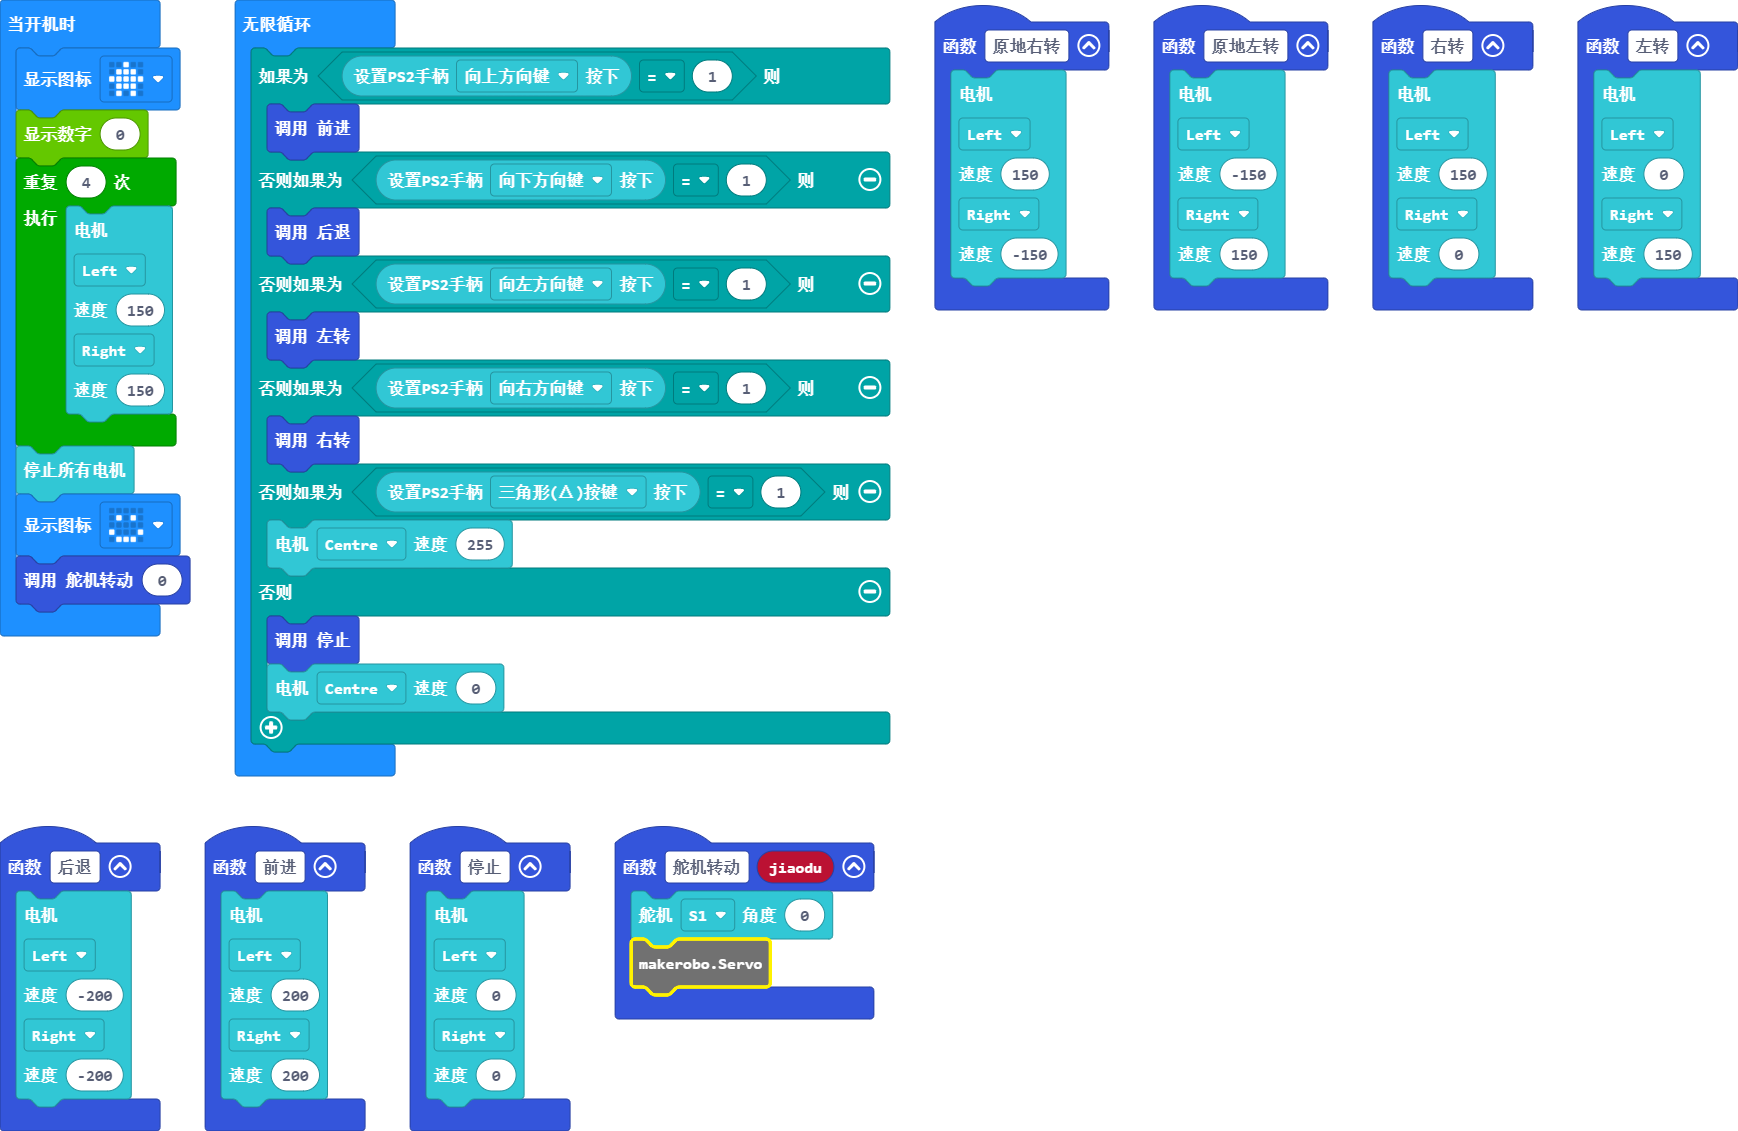
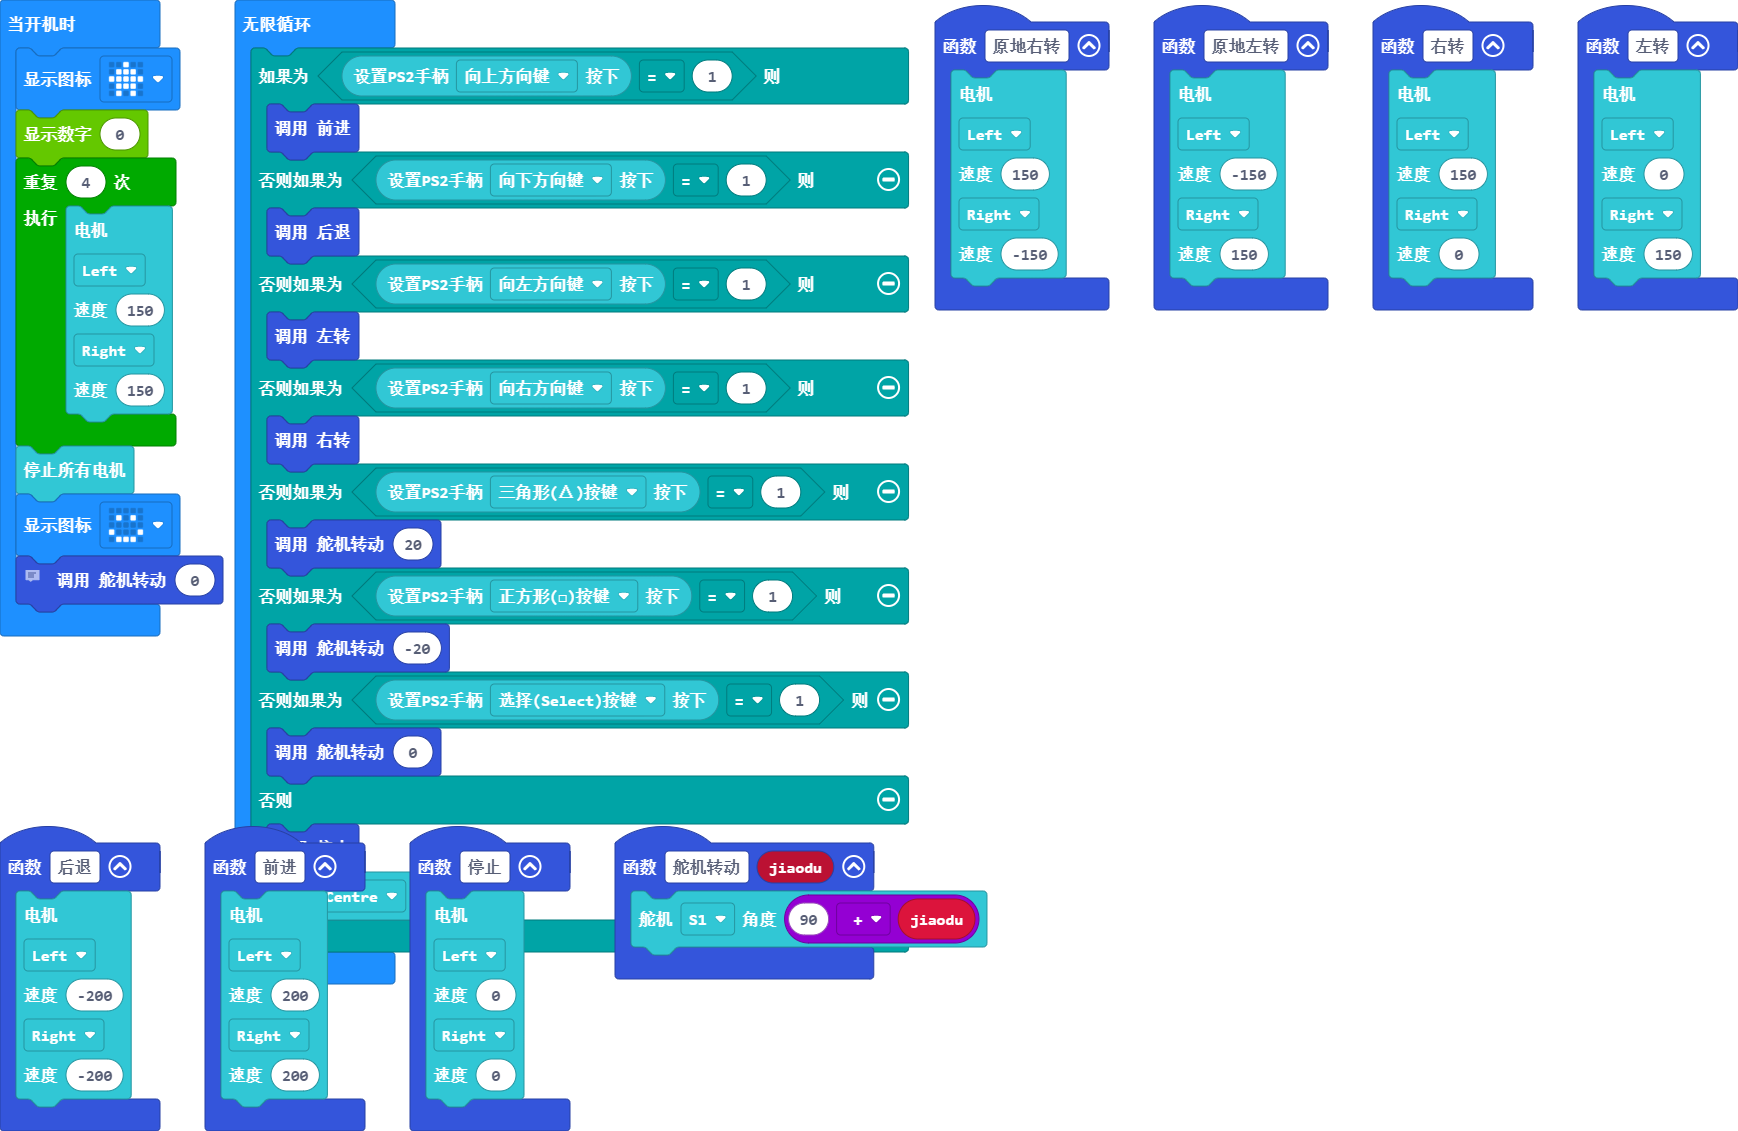
Python代码同步

diff --git a/main.ts b/main.ts
@@ -60,11 +60,16 @@ function 停止 () {
 basic.showIcon(IconNames.House)
 TM1650.showNumber(0)
 for (let index = 0; index < 4; index++) {
-    makerobo.MotorRunDual(makerobo.Motors.Left, 150, makerobo.Motors.Right, 150)
+    makerobo.MotorRunDual(
+    makerobo.Motors.Left,
+    150,
+    makerobo.Motors.Right,
+    150
+    )
 }
 makerobo.MotorStopAll()
 basic.showIcon(IconNames.Happy)
-//舵机归位
+// 舵机归位
 舵机转动(0)
 basic.forever(function () {
     if (ps2controller.button_pressed(ps2controller.PS2Button.Up) == 1) {

diff --git a/main.py b/main.py
@@ -1,5 +1,44 @@
-basic.show_icon(IconNames.HEART)
+def 原地右转():
+    makerobo.motor_run_dual(makerobo.Motors.LEFT, 150, makerobo.Motors.RIGHT, -150)
+def 原地左转():
+    makerobo.motor_run_dual(makerobo.Motors.LEFT, -150, makerobo.Motors.RIGHT, 150)
+def 右转():
+    makerobo.motor_run_dual(makerobo.Motors.LEFT, 150, makerobo.Motors.RIGHT, 0)
+def 左转():
+    makerobo.motor_run_dual(makerobo.Motors.LEFT, 0, makerobo.Motors.RIGHT, 150)
+def 舵机转动(jiaodu: number):
+    makerobo.servo(makerobo.Servos.S1, 90 + jiaodu)
+def 后退():
+    makerobo.motor_run_dual(makerobo.Motors.LEFT, -200, makerobo.Motors.RIGHT, -200)
+def 前进():
+    makerobo.motor_run_dual(makerobo.Motors.LEFT, 200, makerobo.Motors.RIGHT, 200)
+def 停止():
+    makerobo.motor_run_dual(makerobo.Motors.LEFT, 0, makerobo.Motors.RIGHT, 0)
+basic.show_icon(IconNames.HOUSE)
+TM1650.show_number(0)
+for index in range(4):
+    makerobo.motor_run_dual(makerobo.Motors.LEFT, 150, makerobo.Motors.RIGHT, 150)
+makerobo.motor_stop_all()
+basic.show_icon(IconNames.HAPPY)
+# 舵机归位
+舵机转动(0)
 
 def on_forever():
-    makerobo.motor_run_dual(makerobo.Motors.LEFT, 150, makerobo.Motors.LEFT, -150)
+    if ps2controller.button_pressed(ps2controller.PS2Button.UP) == 1:
+        前进()
+    elif ps2controller.button_pressed(ps2controller.PS2Button.DOWN) == 1:
+        后退()
+    elif ps2controller.button_pressed(ps2controller.PS2Button.LEFT) == 1:
+        左转()
+    elif ps2controller.button_pressed(ps2controller.PS2Button.RIGHT) == 1:
+        右转()
+    elif ps2controller.button_pressed(ps2controller.PS2Button.TRIANGLE) == 1:
+        舵机转动(20)
+    elif ps2controller.button_pressed(ps2controller.PS2Button.SQUARE) == 1:
+        舵机转动(-20)
+    elif ps2controller.button_pressed(ps2controller.PS2Button.SELECT) == 1:
+        舵机转动(0)
+    else:
+        停止()
+        makerobo.motor_run(makerobo.Motors.CENTRE, 0)
 basic.forever(on_forever)
